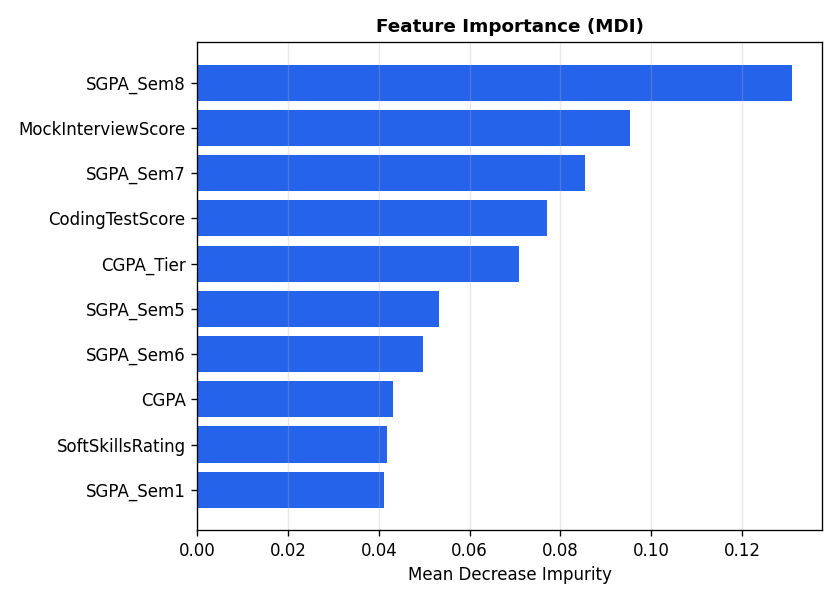
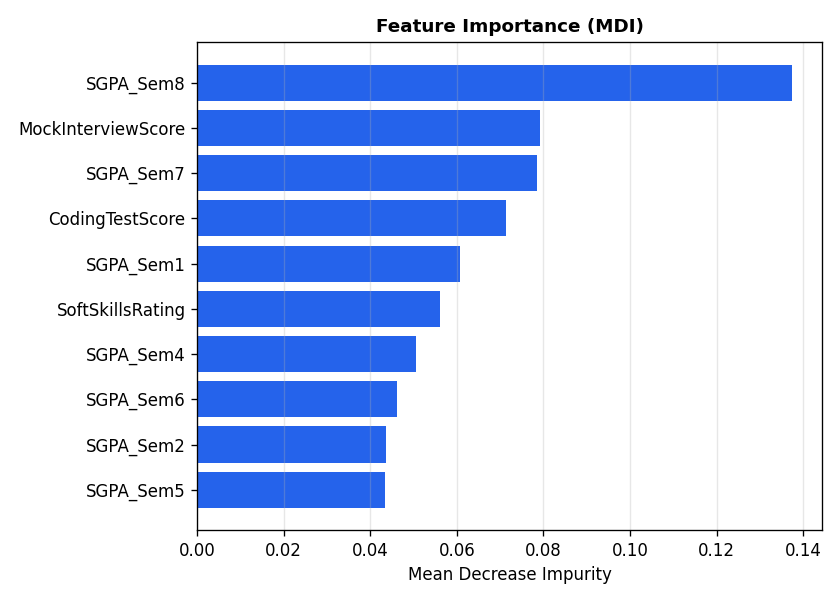
perf: fix slow Module 3 + pipeline pages; clean sidebar (20 unique links, no duplicates)
Speed fixes (10K sample cap + reduced estimators + n_jobs=-1):
  - module3/modern_boosting.py: sample before encoding, 50 estimators
  - module3/shap_importance.py: sample before encoding, 50 trees, 5 perm repeats
  - module3/compare_models.py: sample before encoding, 30-50 estimators
  - module3/pruning.py: sample before encoding
  - module2/pipeline.py: 50 estimators, n_jobs=-1

Timing after fix:
  /pipeline        -> 200 in 1s
  /modern-boosting -> 200 in 2s
  /compare-models  -> 200 in 4s
  /shap-importance -> 200 in 9s
  /pruning         -> 200 in 0s

Sidebar cleanup:
  - Removed duplicate links (8/9/10 -> regression, 15/16/17 -> decision_tree)
  - Renumbered to 1-20 sequentially
  - Renamed labels to match actual page content:
      Regression Models, Feature Scaling & Encoding, Trees & Ensembles,
      Pruning & Splitting Criteria, Comparing All Models

diff --git a/Dashboard/base.html b/Dashboard/base.html
@@ -112,7 +112,7 @@
           <span class="topic-num">1</span> Data Ingestion
         </a>
         <a href="{{ url_for('baseline_page') }}" class="menu-btn-sub {% if request.endpoint == 'baseline_page' %}active{% endif %}">
-          <span class="topic-num">2</span> Baseline Model & Serving
+          <span class="topic-num">2</span> Baseline Model &amp; Serving
         </a>
         <a href="{{ url_for('eda_page') }}" class="menu-btn-sub {% if request.endpoint == 'eda_page' %}active{% endif %}">
           <span class="topic-num">3</span> EDA, First Pass
@@ -131,28 +131,19 @@
       </div>
       <div class="sidebar-module-items">
         <a href="{{ url_for('splitting_page') }}" class="menu-btn-sub {% if request.endpoint == 'splitting_page' %}active{% endif %}">
-          <span class="topic-num">5</span> Train/Val/Test Splitting
+          <span class="topic-num">5</span> Train / Val / Test Splitting
         </a>
         <a href="{{ url_for('regression_page') }}" class="menu-btn-sub {% if request.endpoint == 'regression_page' %}active{% endif %}">
-          <span class="topic-num">6</span> Linear Regression Basics
+          <span class="topic-num">6</span> Regression Models
         </a>
         <a href="{{ url_for('feature_engg_page') }}" class="menu-btn-sub {% if request.endpoint == 'feature_engg_page' %}active{% endif %}">
-          <span class="topic-num">7</span> Feature Scaling
-        </a>
-        <a href="{{ url_for('feature_engg_page') }}" class="menu-btn-sub {% if request.endpoint == 'feature_engg_page' and request.args.get('tab') == 'encoding' %}active{% endif %}">
-          <span class="topic-num">8</span> Encoding & Imputation
-        </a>
-        <a href="{{ url_for('regression_page') }}" class="menu-btn-sub">
-          <span class="topic-num">9</span> Logistic Regression
-        </a>
-        <a href="{{ url_for('regression_page') }}" class="menu-btn-sub">
-          <span class="topic-num">10</span> Regularization
+          <span class="topic-num">7</span> Feature Scaling &amp; Encoding
         </a>
         <a href="{{ url_for('pipeline_page') }}" class="menu-btn-sub {% if request.endpoint == 'pipeline_page' %}active{% endif %}">
-          <span class="topic-num">11</span> End-to-End Pipeline
+          <span class="topic-num">8</span> End-to-End Pipeline
         </a>
         <a href="{{ url_for('coefficients_page') }}" class="menu-btn-sub {% if request.endpoint == 'coefficients_page' %}active{% endif %}">
-          <span class="topic-num">12</span> Model Coefficients
+          <span class="topic-num">9</span> Model Coefficients
         </a>
       </div>
     </div>
@@ -165,28 +156,19 @@
       </div>
       <div class="sidebar-module-items">
         <a href="{{ url_for('decision_tree_page') }}" class="menu-btn-sub {% if request.endpoint == 'decision_tree_page' %}active{% endif %}">
-          <span class="topic-num">13</span> Decision Trees
+          <span class="topic-num">10</span> Trees &amp; Ensembles
         </a>
         <a href="{{ url_for('pruning_page') }}" class="menu-btn-sub {% if request.endpoint == 'pruning_page' %}active{% endif %}">
-          <span class="topic-num">14</span> Pruning & Splitting Criteria
-        </a>
-        <a href="{{ url_for('decision_tree_page') }}" class="menu-btn-sub">
-          <span class="topic-num">15</span> Bias-Variance Tradeoff
-        </a>
-        <a href="{{ url_for('decision_tree_page') }}" class="menu-btn-sub">
-          <span class="topic-num">16</span> Random Forests & Bagging
-        </a>
-        <a href="{{ url_for('decision_tree_page') }}" class="menu-btn-sub">
-          <span class="topic-num">17</span> Boosting Basics
+          <span class="topic-num">11</span> Pruning &amp; Splitting Criteria
         </a>
         <a href="{{ url_for('modern_boosting_page') }}" class="menu-btn-sub {% if request.endpoint == 'modern_boosting_page' %}active{% endif %}">
-          <span class="topic-num">18</span> Modern Boosted Trees
+          <span class="topic-num">12</span> Modern Boosted Trees
         </a>
         <a href="{{ url_for('shap_importance_page') }}" class="menu-btn-sub {% if request.endpoint == 'shap_importance_page' %}active{% endif %}">
-          <span class="topic-num">19</span> Feature Importance & SHAP
+          <span class="topic-num">13</span> Feature Importance &amp; SHAP
         </a>
         <a href="{{ url_for('compare_models_page') }}" class="menu-btn-sub {% if request.endpoint == 'compare_models_page' %}active{% endif %}">
-          <span class="topic-num">20</span> Comparing Model Tracks
+          <span class="topic-num">14</span> Comparing All Models
         </a>
       </div>
     </div>
@@ -199,22 +181,22 @@
       </div>
       <div class="sidebar-module-items">
         <a href="{{ url_for('kmeans_page') }}" class="menu-btn-sub {% if request.endpoint == 'kmeans_page' %}active{% endif %}">
-          <span class="topic-num">21</span> K-Means Clustering
+          <span class="topic-num">15</span> K-Means Clustering
         </a>
         <a href="{{ url_for('hierarchical_page') }}" class="menu-btn-sub {% if request.endpoint == 'hierarchical_page' %}active{% endif %}">
-          <span class="topic-num">24</span> Hierarchical Clustering
+          <span class="topic-num">16</span> Hierarchical Clustering
         </a>
         <a href="{{ url_for('dbscan_page') }}" class="menu-btn-sub {% if request.endpoint == 'dbscan_page' %}active{% endif %}">
-          <span class="topic-num">25</span> DBSCAN
+          <span class="topic-num">17</span> DBSCAN
         </a>
         <a href="{{ url_for('pca_page') }}" class="menu-btn-sub {% if request.endpoint == 'pca_page' %}active{% endif %}">
-          <span class="topic-num">26</span> PCA
+          <span class="topic-num">18</span> PCA
         </a>
         <a href="{{ url_for('umap_page') }}" class="menu-btn-sub {% if request.endpoint == 'umap_page' %}active{% endif %}">
-          <span class="topic-num">27</span> UMAP
+          <span class="topic-num">19</span> UMAP
         </a>
         <a href="{{ url_for('anomaly_detection_page') }}" class="menu-btn-sub {% if request.endpoint == 'anomaly_detection_page' %}active{% endif %}">
-          <span class="topic-num">28</span> Anomaly Detection
+          <span class="topic-num">20</span> Anomaly Detection
         </a>
       </div>
     </div>

diff --git a/module3/shap_importance.py b/module3/shap_importance.py
@@ -1,7 +1,4 @@
-"""Module 3 – Feature Importance and SHAP Values.
-Computes permutation importance as the primary method,
-and SHAP values if the shap library is available.
-"""
+"""Module 3 – Feature Importance and SHAP Values."""
 import numpy as np
 import pandas as pd
 import matplotlib
@@ -15,10 +12,16 @@ import os
 import config
 
 SHAP_DIR = os.path.join(config.PLOTS_DIR, 'SHAP')
+SAMPLE_CAP = 10_000
 
 
 def run_shap_importance(df: pd.DataFrame) -> dict:
     os.makedirs(SHAP_DIR, exist_ok=True)
+
+    # Sample BEFORE encoding
+    if len(df) > SAMPLE_CAP:
+        df = df.sample(SAMPLE_CAP, random_state=config.RANDOM_STATE)
+
     enc_df, _, _, _ = _apply_encoding(df)
     drop_cols = ['StudentID', 'IsAnomaly', 'Salary Package', config.TARGET_COLUMN]
     feat_cols = [c for c in enc_df.columns if c not in drop_cols]
@@ -30,20 +33,25 @@ def run_shap_importance(df: pd.DataFrame) -> dict:
     Xtr, Xva = X[:split], X[split:]
     ytr, yva = y[:split], y[split:]
 
-    rf = RandomForestClassifier(n_estimators=100, random_state=config.RANDOM_STATE)
+    # Fewer trees, parallel
+    rf = RandomForestClassifier(n_estimators=50, random_state=config.RANDOM_STATE, n_jobs=-1)
     rf.fit(Xtr, ytr)
     val_acc = round(float(accuracy_score(yva, rf.predict(Xva))) * 100, 2)
 
-    # 1. Built-in feature importance (mean decrease impurity)
+    # 1. MDI
     mdi = pd.Series(rf.feature_importances_, index=feat_cols).sort_values(ascending=False)
     mdi_data = [{'feature': f, 'importance': round(float(v), 4)} for f, v in mdi.items()]
 
-    # 2. Permutation importance (on validation set)
-    perm = permutation_importance(rf, Xva, yva, n_repeats=10, random_state=config.RANDOM_STATE)
+    # 2. Permutation importance — fewer repeats, cap val set
+    perm_X = Xva[:min(1000, len(Xva))]
+    perm_y = yva[:min(1000, len(yva))]
+    perm = permutation_importance(rf, perm_X, perm_y, n_repeats=5,
+                                  random_state=config.RANDOM_STATE, n_jobs=-1)
     perm_series = pd.Series(perm.importances_mean, index=feat_cols).sort_values(ascending=False)
+    feat_idx = {f: i for i, f in enumerate(feat_cols)}
     perm_data = [
         {'feature': f, 'importance': round(float(v), 4),
-         'std': round(float(perm.importances_std[feat_cols.index(f)]), 4)}
+         'std': round(float(perm.importances_std[feat_idx[f]]), 4)}
         for f, v in perm_series.items()
     ]
 
@@ -58,7 +66,7 @@ def run_shap_importance(df: pd.DataFrame) -> dict:
     fig.savefig(os.path.join(SHAP_DIR, 'mdi_importance.png'), dpi=120)
     plt.close(fig)
 
-    # Permutation importance plot
+    # Permutation plot
     fig, ax = plt.subplots(figsize=(7, max(4, len(perm_data[:10]) * 0.5)))
     top_p = perm_series.head(10)
     ax.barh(top_p.index[::-1], top_p.values[::-1], color='#10B981')
@@ -70,13 +78,12 @@ def run_shap_importance(df: pd.DataFrame) -> dict:
     plt.close(fig)
 
     shap_available = False
+    shap_data = []
     try:
         import shap
-        # Use a small sample for speed
         sample_size = min(200, len(Xva))
         explainer = shap.TreeExplainer(rf)
         shap_values = explainer.shap_values(Xva[:sample_size])
-        # shap_values is list of arrays for binary classification
         sv = shap_values[1] if isinstance(shap_values, list) else shap_values
         shap_mean = np.abs(sv).mean(axis=0)
         shap_series = pd.Series(shap_mean, index=feat_cols).sort_values(ascending=False)
@@ -93,7 +100,7 @@ def run_shap_importance(df: pd.DataFrame) -> dict:
         plt.close(fig)
         shap_available = True
     except Exception:
-        shap_data = []
+        pass
 
     return {
         'val_acc': val_acc,

diff --git a/module3/modern_boosting.py b/module3/modern_boosting.py
@@ -8,8 +8,14 @@ from sklearn.metrics import accuracy_score
 from models.feature_engg import _apply_encoding
 import config
 
+SAMPLE_CAP = 10_000
+
 
 def run_modern_boosting(df: pd.DataFrame) -> dict:
+    # Sample BEFORE encoding to avoid slow encoding on 50K rows
+    if len(df) > SAMPLE_CAP:
+        df = df.sample(SAMPLE_CAP, random_state=config.RANDOM_STATE)
+
     enc_df, _, _, _ = _apply_encoding(df)
     drop_cols = ['StudentID', 'IsAnomaly', 'Salary Package', config.TARGET_COLUMN]
     feat_cols = [c for c in enc_df.columns if c not in drop_cols]
@@ -23,23 +29,23 @@ def run_modern_boosting(df: pd.DataFrame) -> dict:
 
     results = []
 
-    # Sklearn Gradient Boosting
-    gb = GradientBoostingClassifier(n_estimators=100, random_state=config.RANDOM_STATE)
+    # Sklearn Gradient Boosting (reduced estimators for speed)
+    gb = GradientBoostingClassifier(n_estimators=50, random_state=config.RANDOM_STATE)
     gb.fit(Xtr, ytr)
     results.append({
         'name': 'Sklearn GradientBoosting',
         'library': 'scikit-learn',
         'train_acc': round(float(accuracy_score(ytr, gb.predict(Xtr))) * 100, 2),
         'val_acc': round(float(accuracy_score(yva, gb.predict(Xva))) * 100, 2),
-        'note': 'Classic sequential boosting. Slow but reliable.',
+        'note': 'Classic sequential boosting. Reliable baseline for modern methods.',
     })
 
     # XGBoost
     try:
         import xgboost as xgb
         xgb_model = xgb.XGBClassifier(
-            n_estimators=100, random_state=config.RANDOM_STATE,
-            eval_metric='logloss', verbosity=0, use_label_encoder=False
+            n_estimators=50, random_state=config.RANDOM_STATE,
+            eval_metric='logloss', verbosity=0, n_jobs=-1
         )
         xgb_model.fit(Xtr, ytr)
         results.append({
@@ -57,7 +63,7 @@ def run_modern_boosting(df: pd.DataFrame) -> dict:
     try:
         import lightgbm as lgb
         lgb_model = lgb.LGBMClassifier(
-            n_estimators=100, random_state=config.RANDOM_STATE, verbose=-1
+            n_estimators=50, random_state=config.RANDOM_STATE, verbose=-1, n_jobs=-1
         )
         lgb_model.fit(Xtr, ytr)
         results.append({
